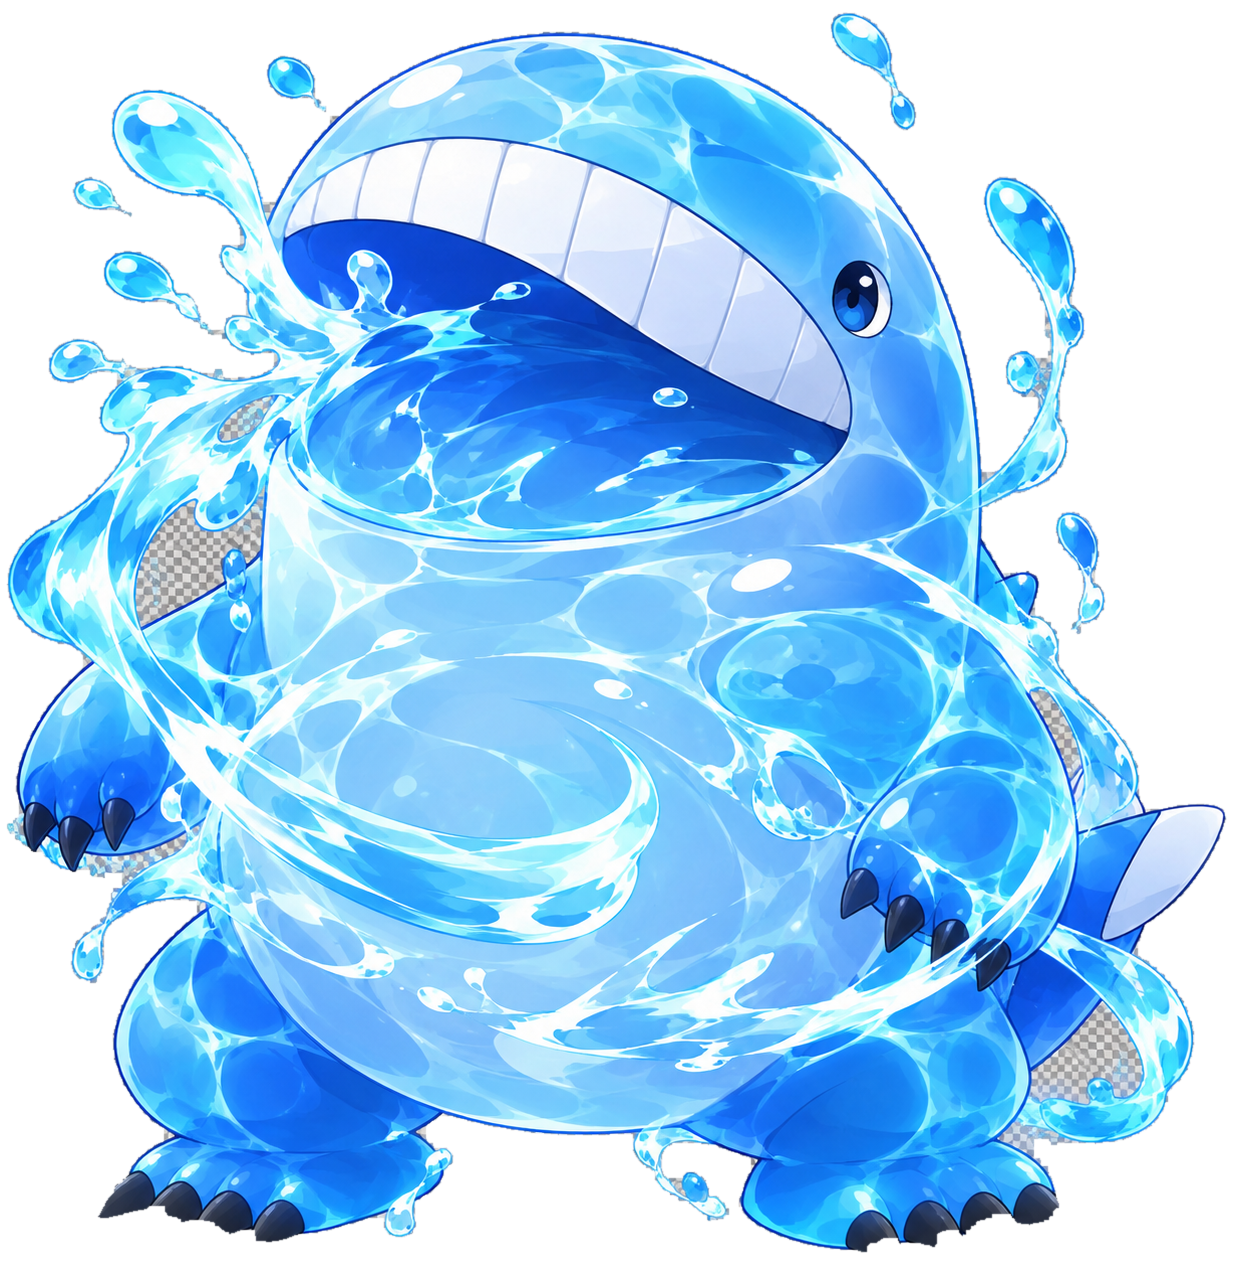
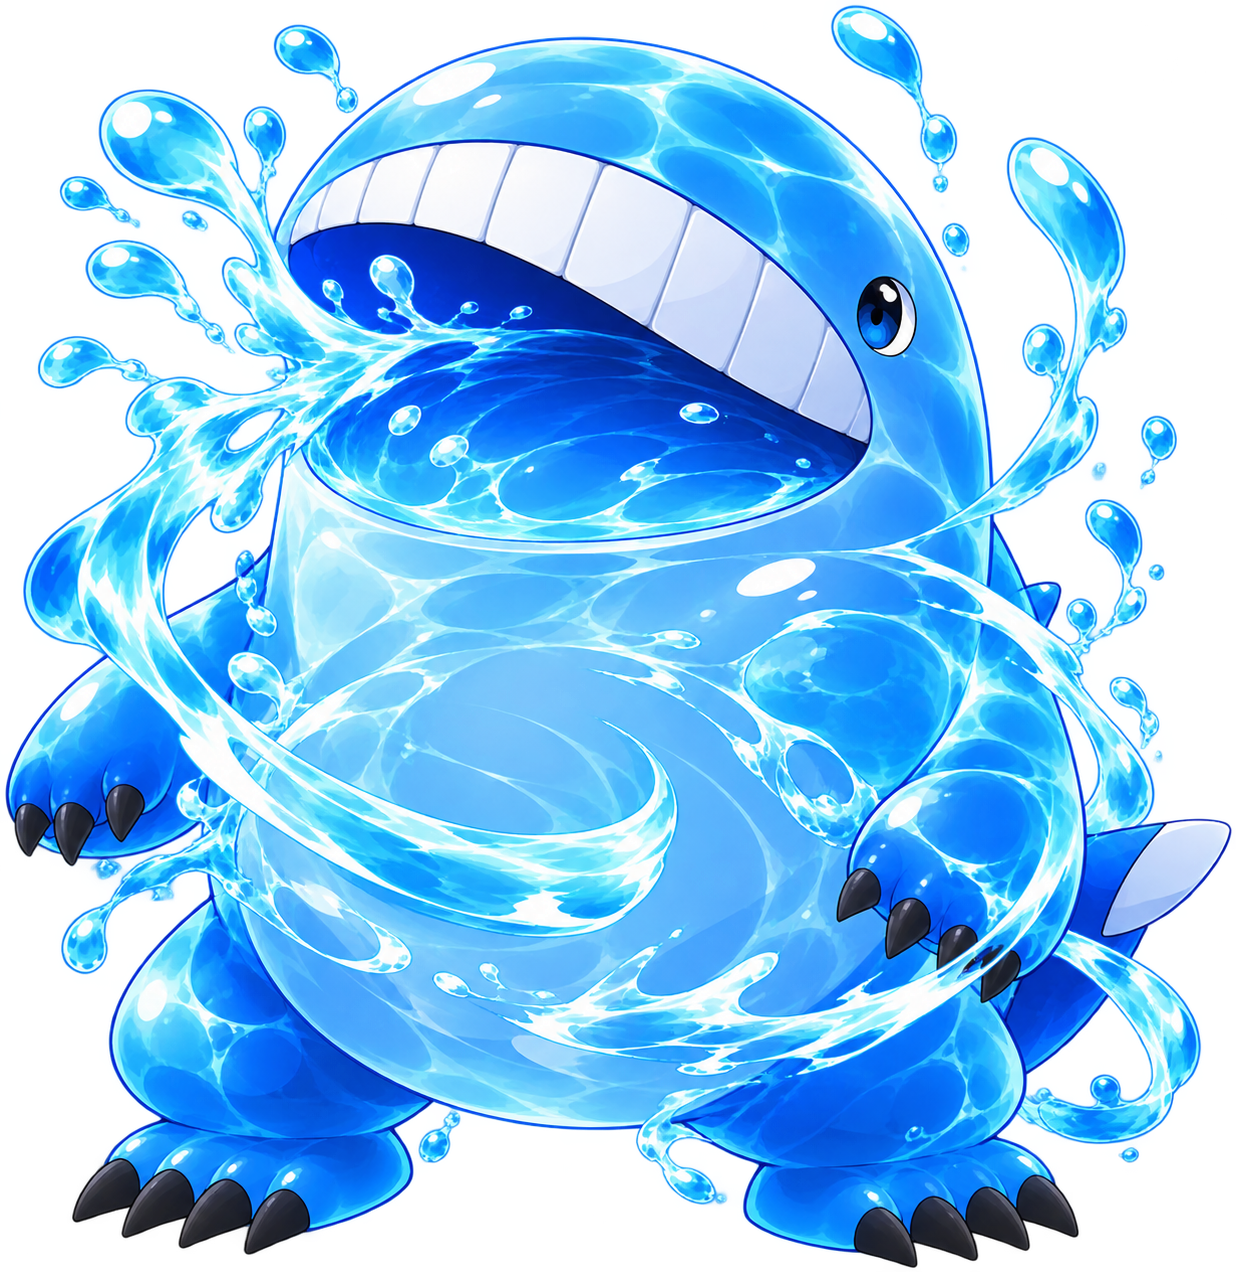
ギガロンの立ち絵を出し直し版に差し替え
Claude-Session: https://claude.ai/code/session_014GTmSNS2ae9tRr57k3zFjC

diff --git a/tools/art-sources/hybrid-2026-10-24/README.md b/tools/art-sources/hybrid-2026-10-24/README.md
@@ -22,5 +22,5 @@ MFバトルカードの混血15体(`tools/art-sources/card-battle/hybrid/cards.j
 | C-063 | アーマードラゴン | ドラゴン×デュラハン(社長) | (記載なし) | 体の一部をアーマーでおおったドラゴン。古代の戦争で人間に利用された時の姿だという(見本は小さな図鑑カードの画像) |
 | C-065 | ギガロン | グジラ×ゲル(社長) | (記載なし) | このモンスターの存在が知られるまでは、海には目があると信じられていた(見本は小さな図鑑カードの画像) |
 
-※ギガロンの立ち絵は、透明な所の色が市松模様のまま残っている(透明度は0なので見えないが、ふちの半透明の所に灰色が混ざるおそれがある)。取り込むときに確かめる。
+※ギガロンの立ち絵は、社長が透過を出し直したもの(2026-10-24。最初の版はすき間に市松模様が残っていた)。
 | C-064 | ケルマディクス | デュラハン×ゴーレム(社長) | (記載なし) | 石を切り出して作ったヨロイであり通常の人間には重く、身につける事は不可能だ(見本は小さな図鑑カードの画像) |
